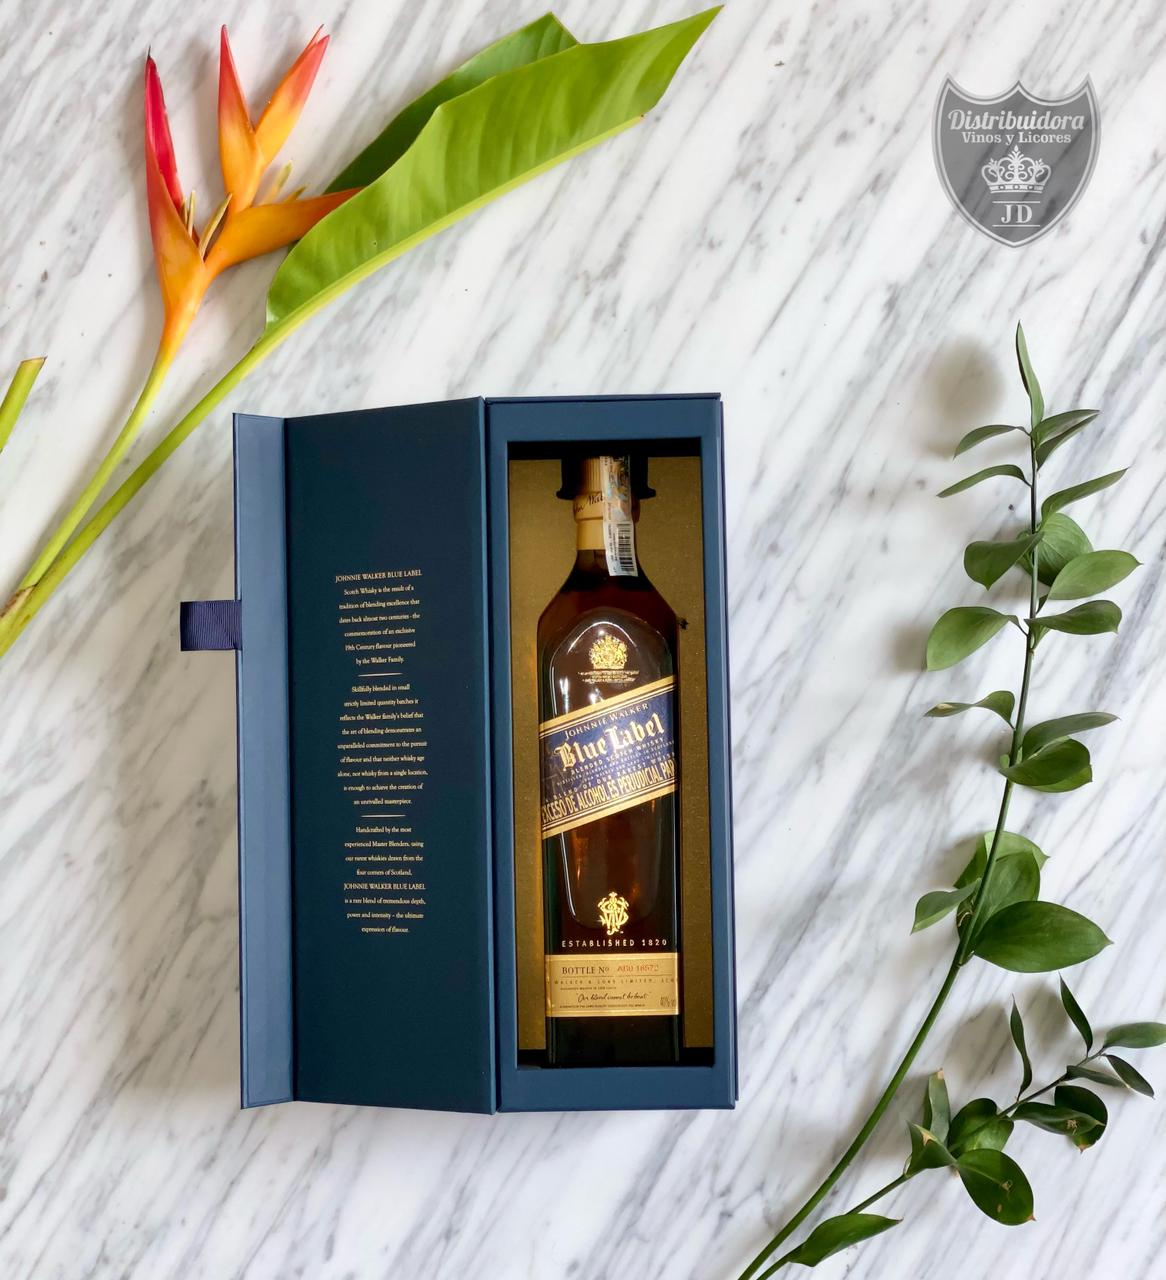
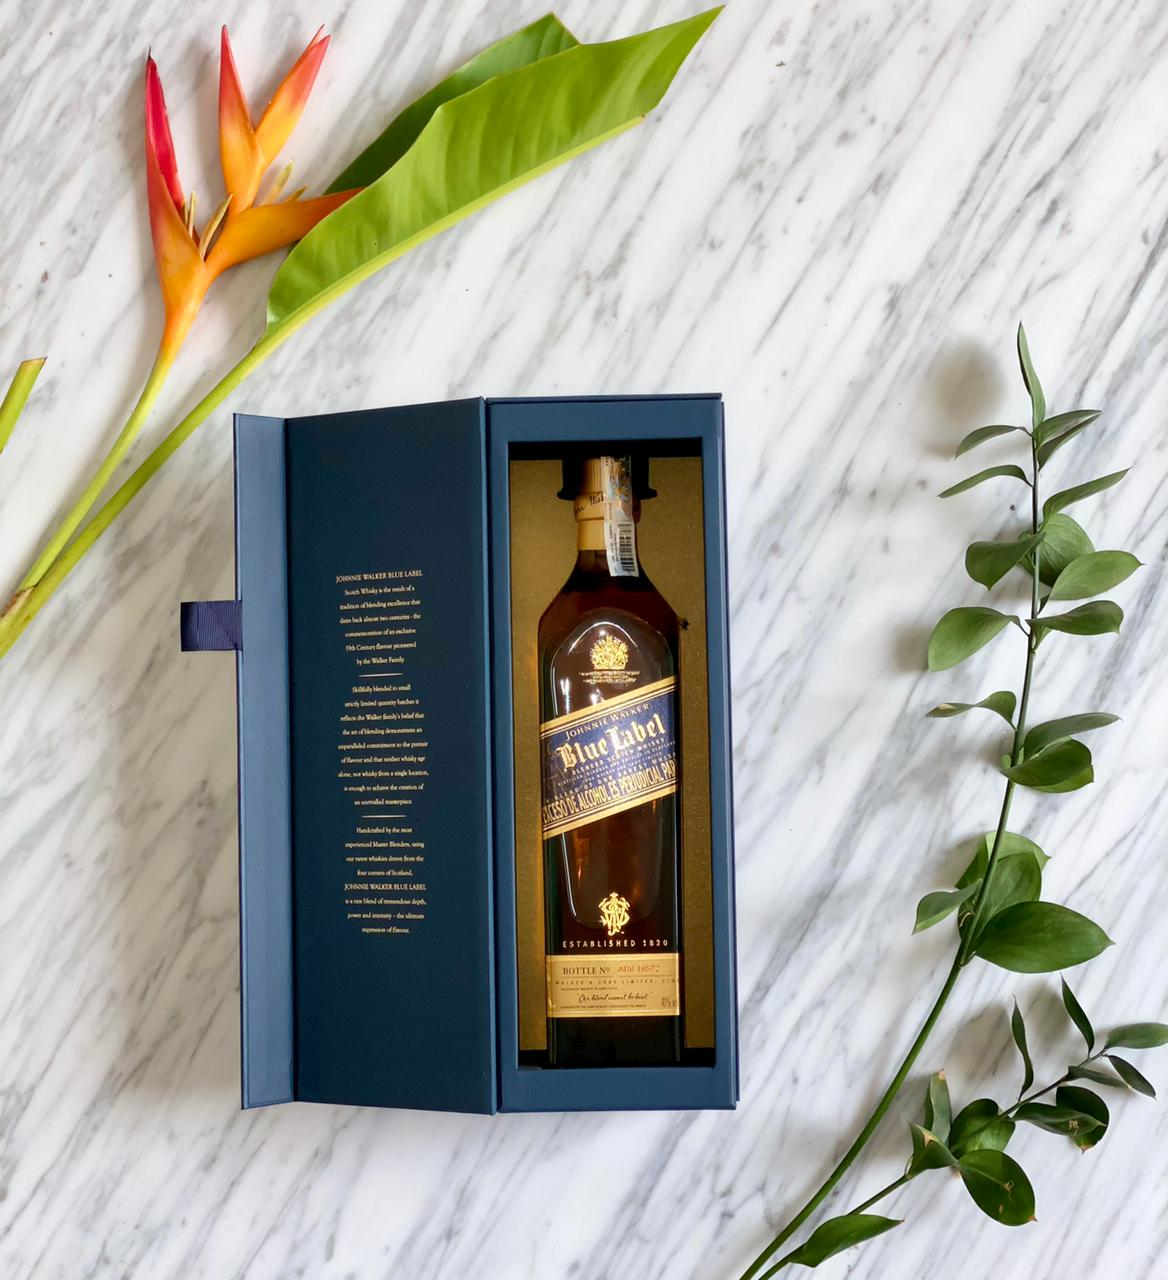
Agrego nuevas fotos sin la marca, ademas comento algunas secciones que no se usaran ahora, sin embargo falta borrar los comentarios y/o guardarlos en alguna rama...

diff --git a/index.html b/index.html
@@ -93,11 +93,10 @@
 				  </div> -->
         </div>
 			<!-- al data-toggle le cambie "collapse" por "dropdown" y asi funciono cuando de click se quita el menu -->
-	      <button class="navbar-toggler" id="boton" type="button" data-toggle="dropdown" data-target="#ftco-nav"
+	      <button class="navbar-toggler" id="boton" type="button" data-toggle="dropdown" data-target="#ftco-nav" 
 		   aria-controls="ftco-nav" aria-expanded="false" aria-label="Toggle navigation">
 	       <span class="oi oi-menu"></span>
-		   <!-- cambio "menú" por la tres lineas -->
-		    <a>&#9776</a>
+		    <a>&#9776;</a>
 	      </button>
 
 	      <div class="collapse navbar-collapse" id="ftco-nav">
@@ -296,7 +295,7 @@
 					</div>
 					<div class="col-md-3 d-flex">
 						<div class="product ftco-animate">
-							<div class="img d-flex align-items-center justify-content-center" style="background-image: url(images/prod-3.jpg);">
+							<div class="img d-flex align-items-center justify-content-center" style="background-image: url(images/licores/Macallan.jpeg);">
 								<div class="desc">
 									<p class="meta-prod d-flex">
 										<a href="#" class="d-flex align-items-center justify-content-center"><span class="flaticon-shopping-bag"></span></a>
@@ -307,8 +306,8 @@
 							</div>
 							<div class="text text-center">
 								<span class="new">New Arrival</span>
-								<span class="category">Rum</span>
-								<h2>Citadelle</h2>
+								<span class="category">Whisky</span>
+								<h2>Macallan Rare Cask, 2020 Release</h2>
 								<span class="price">$69.00</span>
 							</div>
 						</div>
@@ -423,15 +422,15 @@
 						</div>
 					</div>
 				</div>
-				<div class="row justify-content-center">
+				<!-- <div class="row justify-content-center">
 					<div class="col-md-4">
 						<a href="product.html" class="btn btn-primary d-block">View All Products <span class="fa fa-long-arrow-right"></span></a>
 					</div>
-				</div>
+				</div> -->
 			</div>
 		</section>
   
-    <section class="ftco-section testimony-section img" style="background-image: url(images/bg_4.jpg);">
+    <!-- <section class="ftco-section testimony-section img" style="background-image: url(images/bg_4.jpg);">
     	<div class="overlay"></div>
       <div class="container">
         <div class="row justify-content-center mb-5">
@@ -522,11 +521,11 @@
           </div>
         </div>
       </div>
-    </section>
+    </section> -->
 
 
 		
-    <section class="ftco-section">
+    <!-- <section class="ftco-section">
       <div class="container">
         <div class="row justify-content-center mb-5">
           <div class="col-md-7 heading-section text-center ftco-animate">
@@ -597,14 +596,14 @@
           </div>
         </div>
       </div>
-    </section>	
+    </section>	 -->
 
     <footer class="ftco-footer">
       <div class="container">
         <div class="row mb-5">
           <div class="col-sm-12 col-md">
             <div class="ftco-footer-widget mb-4">
-              <h2 class="ftco-heading-2 logo"><a href="#">Liquor <span>Store</span></a></h2>
+              <h2 class="ftco-heading-2 logo"><a href="#">Distribuidora de vinos y licores <span>JD</span></a></h2>
               <p>Far far away, behind the word mountains, far from the countries.</p>
               <ul class="ftco-footer-social list-unstyled mt-2">
                 <li class="ftco-animate"><a href="#"><span class="fa fa-twitter"></span></a></li>
